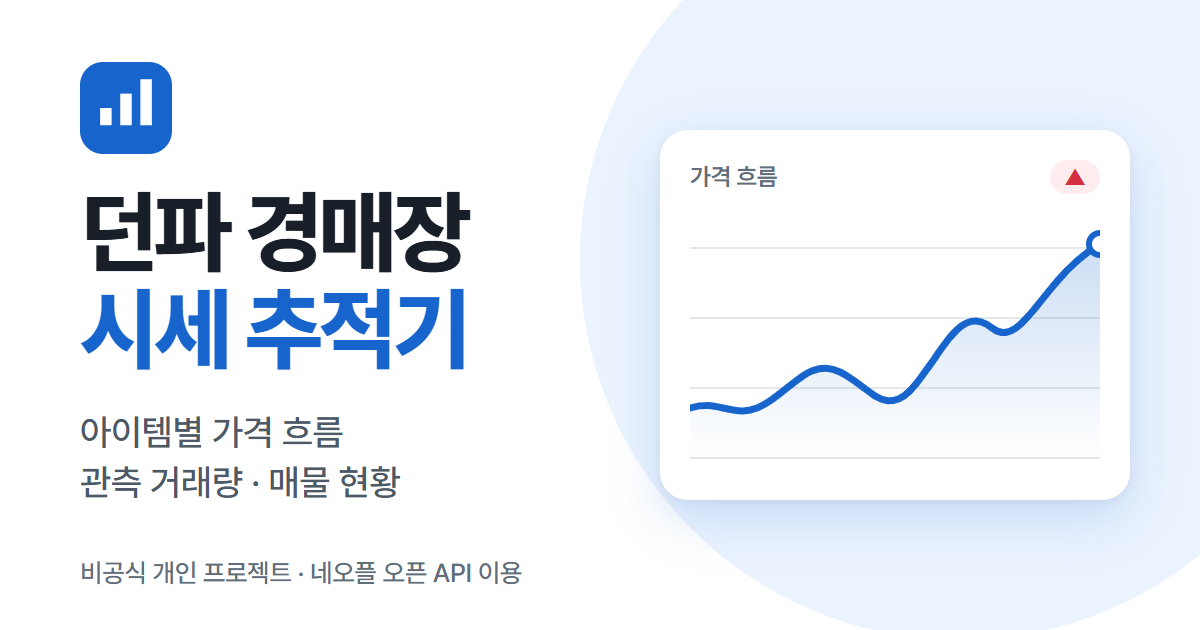
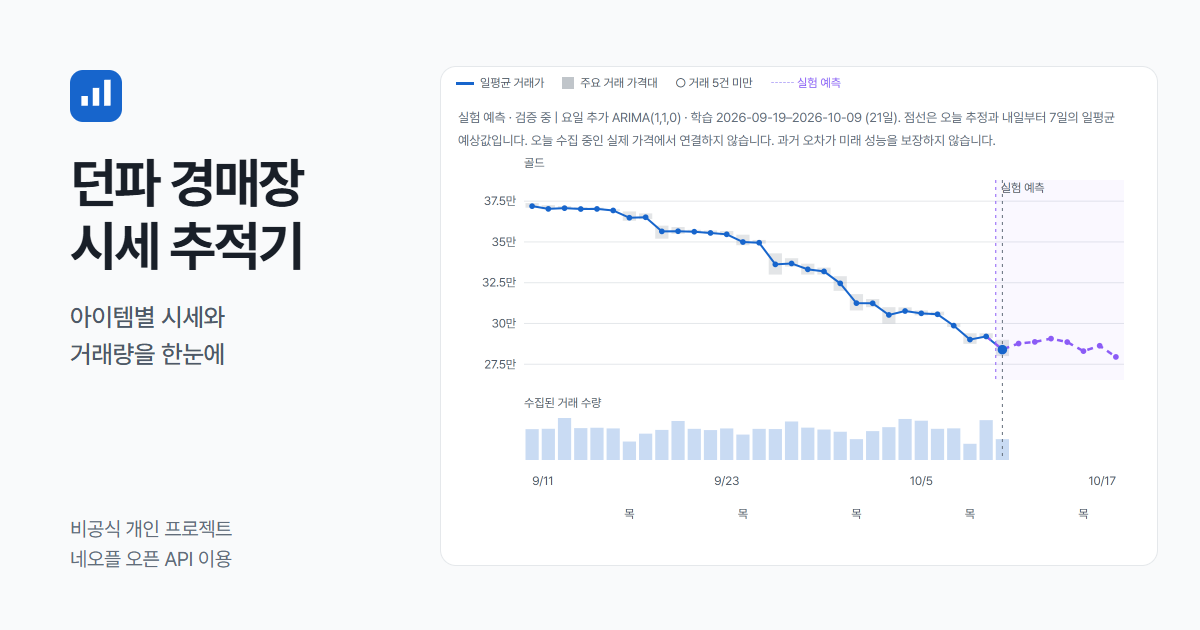
공유 미리보기 이미지를 실제 가격 차트 화면으로 교체 (#74)
링크를 카카오톡·디스코드 등에 붙였을 때 나오는 미리보기 이미지를, 장식용 그림(실제 가격이 아닌 곡선)에서 상세 페이지의 실제 가격 차트 화면으로 바꾼다.

- web/og-image.png: 라이브 사이트의 상세 페이지 차트 카드를 그대로 찍어 넣은 1200×630 PNG(68,935B). 그라데이션·빛 효과·폰 틀 없이 사이트와 같은 색·글꼴로 만들었고, 게임 아이템 아이콘은 들어 있지 않다.
- 7개 페이지의 og:image 주소에 ?v=20261010-og-chart를 붙였다. 공유 서비스는 주소별로 미리보기를 캐시하므로 주소가 같으면 예전 이미지가 계속 나올 수 있다. 앞으로 이미지를 바꿀 때 이 값을 함께 올린다.
- scripts/test-share-meta.ts: og:image가 절대 주소 + ?v=<버전> 형태인지, 7개 페이지가 같은 값을 쓰는지 확인한다. ?v= 제거, 한 페이지만 다른 버전, 이미지 500KB 초과 세 가지를 일부러 만들어 모두 테스트가 잡아내는 것을 확인했다.

diff --git a/web/analysis.html b/web/analysis.html
@@ -13,7 +13,7 @@
 <meta property="og:site_name" content="던파 경매장 시세 추적기">
 <meta property="og:locale" content="ko_KR">
 <meta property="og:url" content="https://kimtaehoon1107-gif.github.io/dnf-price-tracker/analysis.html">
-<meta property="og:image" content="https://kimtaehoon1107-gif.github.io/dnf-price-tracker/og-image.png">
+<meta property="og:image" content="https://kimtaehoon1107-gif.github.io/dnf-price-tracker/og-image.png?v=20261010-og-chart">
 <meta property="og:image:width" content="1200">
 <meta property="og:image:height" content="630">
 <meta property="og:image:alt" content="던파 경매장 시세 추적기 — 아이템별 가격 흐름, 관측 거래량, 매물 현황">

diff --git a/web/feedback.html b/web/feedback.html
@@ -14,7 +14,7 @@
 <meta property="og:site_name" content="던파 경매장 시세 추적기">
 <meta property="og:locale" content="ko_KR">
 <meta property="og:url" content="https://kimtaehoon1107-gif.github.io/dnf-price-tracker/feedback.html">
-<meta property="og:image" content="https://kimtaehoon1107-gif.github.io/dnf-price-tracker/og-image.png">
+<meta property="og:image" content="https://kimtaehoon1107-gif.github.io/dnf-price-tracker/og-image.png?v=20261010-og-chart">
 <meta property="og:image:width" content="1200">
 <meta property="og:image:height" content="630">
 <meta property="og:image:alt" content="던파 경매장 시세 추적기 — 아이템별 가격 흐름, 관측 거래량, 매물 현황">

diff --git a/web/research.html b/web/research.html
@@ -15,7 +15,7 @@
 <meta property="og:site_name" content="던파 경매장 시세 추적기">
 <meta property="og:locale" content="ko_KR">
 <meta property="og:url" content="https://kimtaehoon1107-gif.github.io/dnf-price-tracker/research.html">
-<meta property="og:image" content="https://kimtaehoon1107-gif.github.io/dnf-price-tracker/og-image.png">
+<meta property="og:image" content="https://kimtaehoon1107-gif.github.io/dnf-price-tracker/og-image.png?v=20261010-og-chart">
 <meta property="og:image:width" content="1200">
 <meta property="og:image:height" content="630">
 <meta property="og:image:alt" content="던파 경매장 시세 추적기 — 아이템별 가격 흐름, 관측 거래량, 매물 현황">

diff --git a/web/seasonal.html b/web/seasonal.html
@@ -10,7 +10,7 @@
 <meta property="og:site_name" content="던파 경매장 시세 추적기">
 <meta property="og:locale" content="ko_KR">
 <meta property="og:url" content="https://kimtaehoon1107-gif.github.io/dnf-price-tracker/seasonal.html">
-<meta property="og:image" content="https://kimtaehoon1107-gif.github.io/dnf-price-tracker/og-image.png">
+<meta property="og:image" content="https://kimtaehoon1107-gif.github.io/dnf-price-tracker/og-image.png?v=20261010-og-chart">
 <meta property="og:image:width" content="1200">
 <meta property="og:image:height" content="630">
 <meta property="og:image:alt" content="던파 경매장 시세 추적기 — 아이템별 가격 흐름, 관측 거래량, 매물 현황">

diff --git a/web/ranking.html b/web/ranking.html
@@ -13,7 +13,7 @@
 <meta property="og:site_name" content="던파 경매장 시세 추적기">
 <meta property="og:locale" content="ko_KR">
 <meta property="og:url" content="https://kimtaehoon1107-gif.github.io/dnf-price-tracker/ranking.html">
-<meta property="og:image" content="https://kimtaehoon1107-gif.github.io/dnf-price-tracker/og-image.png">
+<meta property="og:image" content="https://kimtaehoon1107-gif.github.io/dnf-price-tracker/og-image.png?v=20261010-og-chart">
 <meta property="og:image:width" content="1200">
 <meta property="og:image:height" content="630">
 <meta property="og:image:alt" content="던파 경매장 시세 추적기 — 아이템별 가격 흐름, 관측 거래량, 매물 현황">

diff --git a/web/guide.html b/web/guide.html
@@ -13,7 +13,7 @@
 <meta property="og:site_name" content="던파 경매장 시세 추적기">
 <meta property="og:locale" content="ko_KR">
 <meta property="og:url" content="https://kimtaehoon1107-gif.github.io/dnf-price-tracker/guide.html">
-<meta property="og:image" content="https://kimtaehoon1107-gif.github.io/dnf-price-tracker/og-image.png">
+<meta property="og:image" content="https://kimtaehoon1107-gif.github.io/dnf-price-tracker/og-image.png?v=20261010-og-chart">
 <meta property="og:image:width" content="1200">
 <meta property="og:image:height" content="630">
 <meta property="og:image:alt" content="던파 경매장 시세 추적기 — 아이템별 가격 흐름, 관측 거래량, 매물 현황">

diff --git a/web/index.html b/web/index.html
@@ -51,7 +51,7 @@
 <meta property="og:site_name" content="던파 경매장 시세 추적기">
 <meta property="og:locale" content="ko_KR">
 <meta property="og:url" content="https://kimtaehoon1107-gif.github.io/dnf-price-tracker/">
-<meta property="og:image" content="https://kimtaehoon1107-gif.github.io/dnf-price-tracker/og-image.png">
+<meta property="og:image" content="https://kimtaehoon1107-gif.github.io/dnf-price-tracker/og-image.png?v=20261010-og-chart">
 <meta property="og:image:width" content="1200">
 <meta property="og:image:height" content="630">
 <meta property="og:image:alt" content="던파 경매장 시세 추적기 — 아이템별 가격 흐름, 관측 거래량, 매물 현황">
